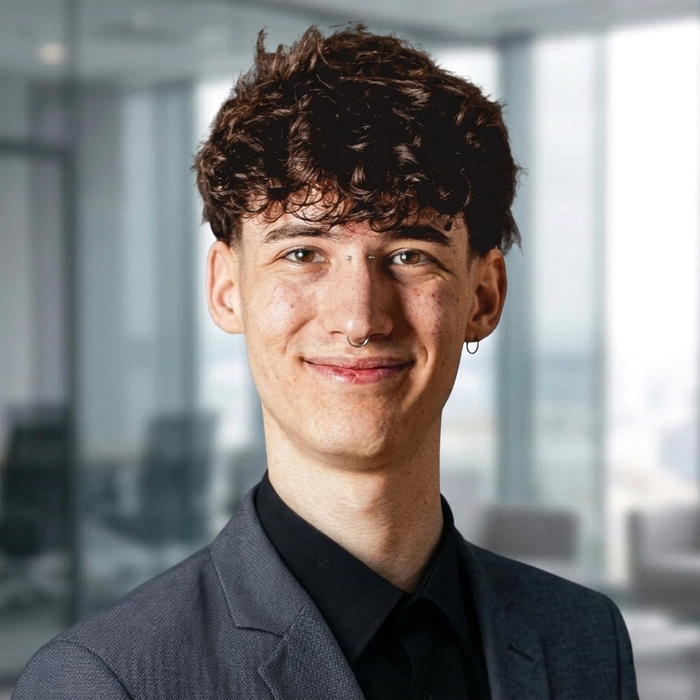
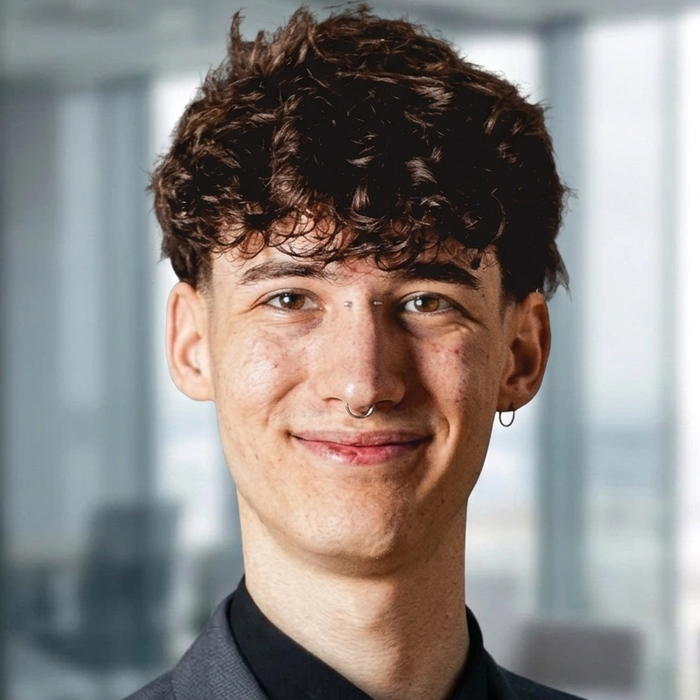
Marketing Manager opt

diff --git a/src/app/[locale]/rolunk/page.tsx b/src/app/[locale]/rolunk/page.tsx
@@ -341,9 +341,9 @@ export default function RolunkPage() {
                             {t('team_subtitle')}
                         </p>
                     </SlideUp>
-                    <div className="flex flex-wrap justify-center gap-6 max-w-7xl mx-auto">
+                    <div className="flex flex-wrap justify-center gap-8 max-w-6xl mx-auto">
                         {team.map((member, i) => (
-                            <ScaleIn key={i} delay={i * 0.1} className="w-full sm:w-[calc(50%-0.75rem)] lg:w-[calc(33.333%-1rem)] xl:w-[calc(20%-1.2rem)] flex">
+                            <ScaleIn key={i} delay={i * 0.1} className="w-full sm:w-[calc(50%-1rem)] lg:w-[calc(33.333%-1.5rem)] max-w-sm flex">
                                 <div className="relative bg-white/5 border border-white/10 backdrop-blur-sm rounded-xl shadow-lg hover:shadow-xl hover:bg-white/[0.08] transition-all duration-300 h-full w-full flex flex-col group overflow-hidden">
                                     {/* Top gradient accent */}
                                     <div className="h-1 w-full bg-gradient-to-r from-primary via-cyan-400 to-primary opacity-60 group-hover:opacity-100 transition-opacity" />

diff --git a/next.config.ts b/next.config.ts
@@ -4,6 +4,7 @@ import type { NextConfig } from "next";
 const withNextIntl = createNextIntlPlugin();
 
 const nextConfig: NextConfig = {
+  output: "standalone",
   trailingSlash: false,
   experimental: {
     serverActions: {
